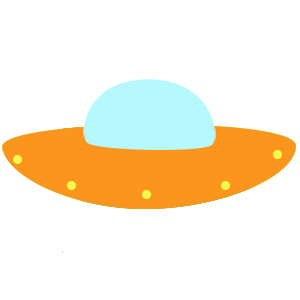
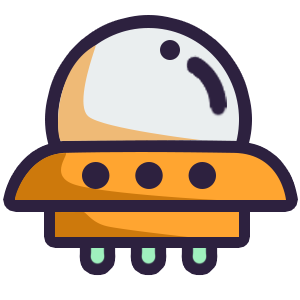
new images

diff --git a/script.js b/script.js
@@ -55,7 +55,8 @@ var heart = {
 };
 
 var button = {
-    img: document.getElementById("button"),
+    img1: document.getElementById("button"),
+    img2: document.getElementById("cl_button"),
     size: width / 13,
     x: width - width / 13 - 15,
     y: 20
@@ -174,9 +175,11 @@ function drawHearts() {
 }
 
 function drawButton() {
-    if (isDrawNet)
+    if (isDrawNet) {
         drawNet();
-    context.drawImage(button.img, button.x, button.y, button.size, button.size);
+        context.drawImage(button.img2, button.x, button.y, button.size, button.size);
+    }
+    else context.drawImage(button.img1, button.x, button.y, button.size, button.size);
     //write("сетка",button.x+button.size/4,button.y+button.size/1.5,65);
 }
 
@@ -362,8 +365,8 @@ function shot(ar) {
                             batUFO.type = hitting;
                             drawBAT_UFO(object.x, object.y);
                             count = 0;
-                            if (stepTime > 10 && !isTutor) stepTime -= 1;
-                            else {
+                            if(stepTime>5)stepTime -= 1;
+                            if (stepTime < 10 && !isTutor && wave<2) {
                                 wave++;
                                 stepTime = gameCount;
                             }

diff --git a/test.html b/test.html
@@ -15,6 +15,7 @@
 <img src="images/explos.png" id="expl">
 <img src="images/heart.png" id="heart">
 <img src="images/button.png" id="button">
+<img src="images/buttoncl.png" id="cl_button">
 <img src="images/sun.png" id="sun">
 <img src="images/light.png" id="light">
 <img src="images/bullet.png" id="bullet">
@@ -30,6 +31,7 @@
     document.getElementById("expl").style.display = 'none';
     document.getElementById("heart").style.display = 'none';
     document.getElementById("button").style.display = 'none';
+    document.getElementById("cl_button").style.display = 'none';
     document.getElementById("sun").style.display = 'none';
     document.getElementById("light").style.display = 'none';
     document.getElementById("bullet").style.display = 'none';
